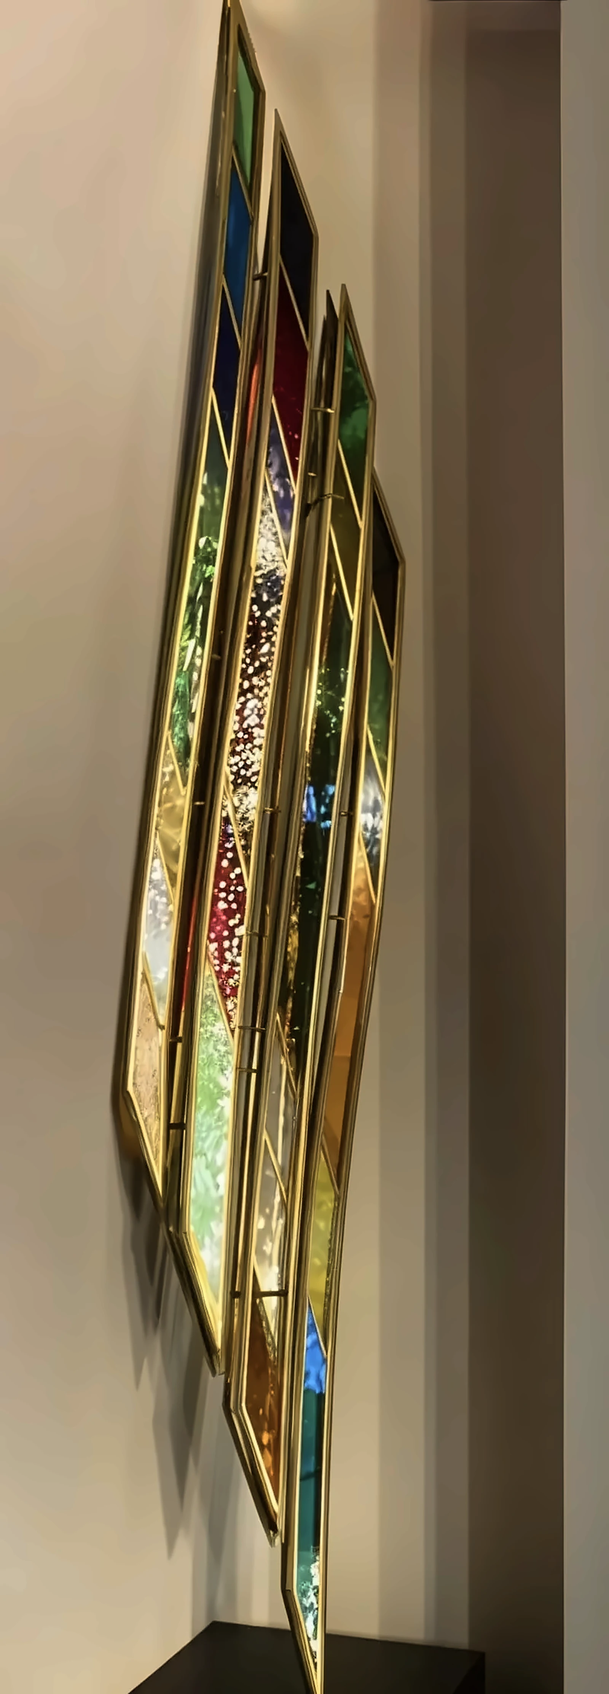
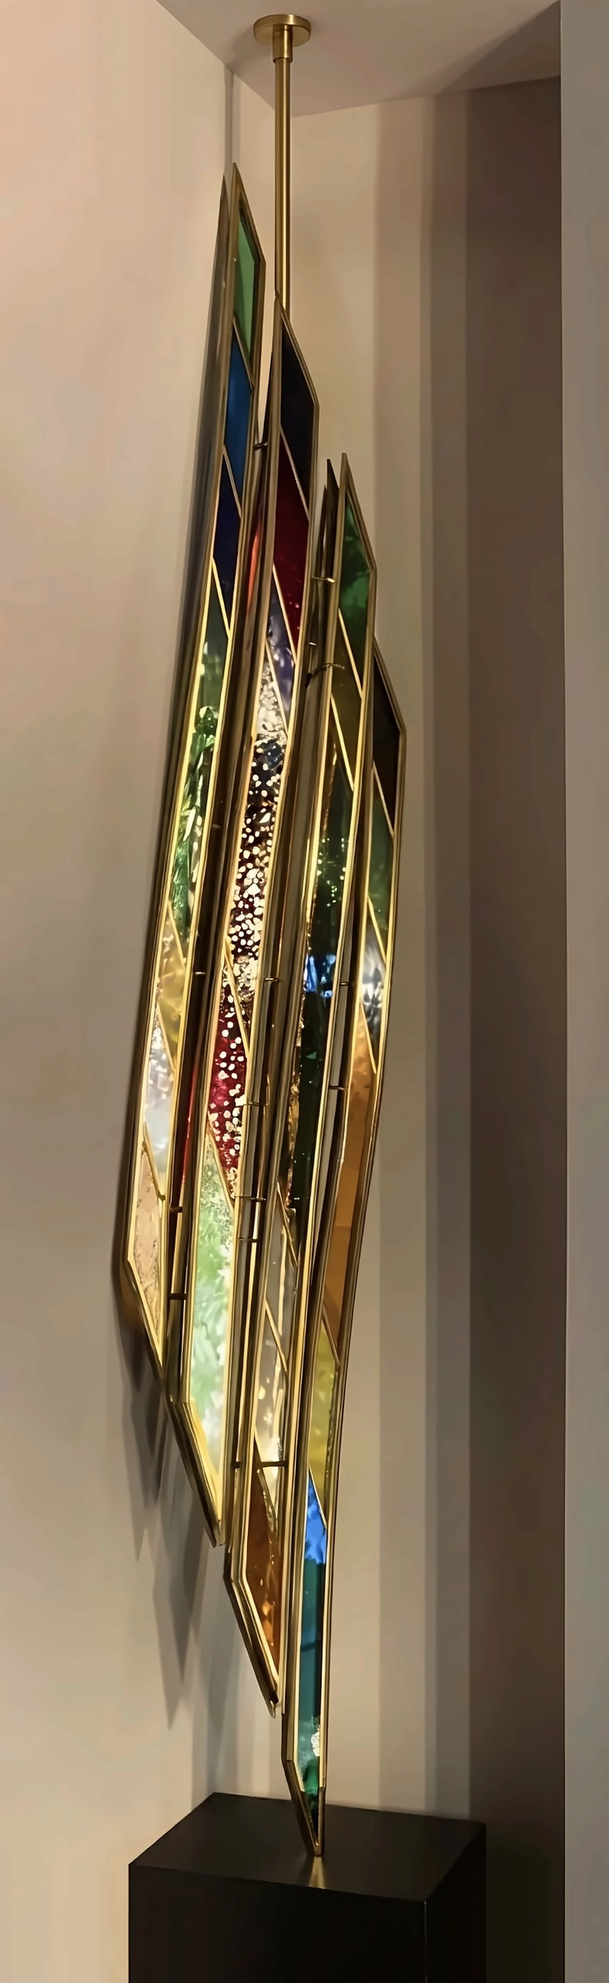
Olymp: replaced with Arthi's new photo (2x upscale, 1582x5152), ratio 0.307, image version v3
Claude-Session: https://claude.ai/code/session_01H5rr4vyQfECm49aUQdYU3c

Changed region(s): [[0.1875, 0.0, 0.875, 1.0], [0.6875, 0.0, 0.9062, 0.0624]]

diff --git a/fr/gallery/olymp-glass-sculpture/index.html b/fr/gallery/olymp-glass-sculpture/index.html
@@ -19,7 +19,7 @@
     <meta property="og:title" content="Olymp — Vitrail d&#x27;Arthemii Ionaere">
     <meta property="og:description" content="Une haute sculpture ondulée de la série Frame Sculpting. Du verre thermoformé serti dans une structure en acier avec des baguettes de laiton forme une…">
     <meta property="og:url" content="https://ionaere.com/fr/gallery/olymp-glass-sculpture/">
-    <meta property="og:image" content="https://ionaere.com/img/opt/2024-12-Arthemii-Ionaere-olymp-1600.jpg?v=2">
+    <meta property="og:image" content="https://ionaere.com/img/opt/2024-12-Arthemii-Ionaere-olymp-1600.jpg?v=3">
     <meta name="twitter:card" content="summary_large_image">
     <link rel="preconnect" href="https://fonts.googleapis.com">
     <link rel="preconnect" href="https://fonts.gstatic.com" crossorigin>
@@ -36,7 +36,7 @@
         }
     </style>
     <script type="application/ld+json">
-{"@context": "https://schema.org", "@type": "VisualArtwork", "name": "Olymp", "url": "https://ionaere.com/fr/gallery/olymp-glass-sculpture/", "image": "https://ionaere.com/img/opt/2024-12-Arthemii-Ionaere-olymp-1600.jpg?v=2", "description": "Une haute sculpture ondulée de la série Frame Sculpting. Du verre thermoformé serti dans une structure en acier avec des baguettes de laiton forme une surface verticale fluide d'environ deux mètres. Elle est conçue pour être suspendue.", "artform": "Stained glass", "artMedium": "Glass", "creator": {"@type": "Person", "@id": "https://ionaere.com/#artist", "name": "Arthemii Ionaere", "url": "https://ionaere.com/"}}
+{"@context": "https://schema.org", "@type": "VisualArtwork", "name": "Olymp", "url": "https://ionaere.com/fr/gallery/olymp-glass-sculpture/", "image": "https://ionaere.com/img/opt/2024-12-Arthemii-Ionaere-olymp-1600.jpg?v=3", "description": "Une haute sculpture ondulée de la série Frame Sculpting. Du verre thermoformé serti dans une structure en acier avec des baguettes de laiton forme une surface verticale fluide d'environ deux mètres. Elle est conçue pour être suspendue.", "artform": "Stained glass", "artMedium": "Glass", "creator": {"@type": "Person", "@id": "https://ionaere.com/#artist", "name": "Arthemii Ionaere", "url": "https://ionaere.com/"}}
     </script>
 </head>
 <body>
@@ -88,7 +88,7 @@
             <div class="container" style="max-width:1000px">
                 <a href="../" style="font-size:0.875rem;color:var(--text-secondary);display:inline-block;margin-bottom:var(--spacing-md)">← Retour à la galerie</a>
                 <div class="photo-view" style="border-radius:12px;overflow:hidden;margin-bottom:var(--spacing-md);background:var(--bg-alt)">
-                    <picture><source type="image/webp" srcset="../../../img/opt/2024-12-Arthemii-Ionaere-olymp-800.webp?v=2 800w, ../../../img/opt/2024-12-Arthemii-Ionaere-olymp-1600.webp?v=2 1600w, ../../../img/opt/2024-12-Arthemii-Ionaere-olymp-2400.webp?v=2 2400w" sizes="(max-width: 1000px) 100vw, 1000px"><img src="../../../img/opt/2024-12-Arthemii-Ionaere-olymp-1600.jpg?v=2" alt="Olymp — Arthemii Ionaere" style="width:100%;display:block"></picture>
+                    <picture><source type="image/webp" srcset="../../../img/opt/2024-12-Arthemii-Ionaere-olymp-800.webp?v=3 800w, ../../../img/opt/2024-12-Arthemii-Ionaere-olymp-1600.webp?v=3 1600w, ../../../img/opt/2024-12-Arthemii-Ionaere-olymp-2400.webp?v=3 2400w" sizes="(max-width: 1000px) 100vw, 1000px"><img src="../../../img/opt/2024-12-Arthemii-Ionaere-olymp-1600.jpg?v=3" alt="Olymp — Arthemii Ionaere" style="width:100%;display:block"></picture>
                     <a class="photo-view__arrow photo-view__arrow--prev" href="../exhibition-installation/" rel="prev" aria-label="Previous photo: Kinetic Prizm n° 2"><svg viewBox="0 0 24 24" aria-hidden="true"><path d="M15 5l-7 7 7 7"/></svg></a>
                     <a class="photo-view__arrow photo-view__arrow--next" href="../stained-glass-composition/" rel="next" aria-label="Next photo: Frame Sculpting · 2020"><svg viewBox="0 0 24 24" aria-hidden="true"><path d="M9 5l7 7-7 7"/></svg></a>
                 </div>

diff --git a/es/gallery/olymp-glass-sculpture/index.html b/es/gallery/olymp-glass-sculpture/index.html
@@ -19,7 +19,7 @@
     <meta property="og:title" content="Olymp — Vitral de Arthemii Ionaere">
     <meta property="og:description" content="Una escultura alta y ondulada de la serie Frame Sculpting. Vidrio curvado engastado en una estructura de acero con perfiles de latón forma una superficie…">
     <meta property="og:url" content="https://ionaere.com/es/gallery/olymp-glass-sculpture/">
-    <meta property="og:image" content="https://ionaere.com/img/opt/2024-12-Arthemii-Ionaere-olymp-1600.jpg?v=2">
+    <meta property="og:image" content="https://ionaere.com/img/opt/2024-12-Arthemii-Ionaere-olymp-1600.jpg?v=3">
     <meta name="twitter:card" content="summary_large_image">
     <link rel="preconnect" href="https://fonts.googleapis.com">
     <link rel="preconnect" href="https://fonts.gstatic.com" crossorigin>
@@ -36,7 +36,7 @@
         }
     </style>
     <script type="application/ld+json">
-{"@context": "https://schema.org", "@type": "VisualArtwork", "name": "Olymp", "url": "https://ionaere.com/es/gallery/olymp-glass-sculpture/", "image": "https://ionaere.com/img/opt/2024-12-Arthemii-Ionaere-olymp-1600.jpg?v=2", "description": "Una escultura alta y ondulada de la serie Frame Sculpting. Vidrio curvado engastado en una estructura de acero con perfiles de latón forma una superficie vertical fluida de unos dos metros de altura. Está concebida para colgarse.", "artform": "Stained glass", "artMedium": "Glass", "creator": {"@type": "Person", "@id": "https://ionaere.com/#artist", "name": "Arthemii Ionaere", "url": "https://ionaere.com/"}}
+{"@context": "https://schema.org", "@type": "VisualArtwork", "name": "Olymp", "url": "https://ionaere.com/es/gallery/olymp-glass-sculpture/", "image": "https://ionaere.com/img/opt/2024-12-Arthemii-Ionaere-olymp-1600.jpg?v=3", "description": "Una escultura alta y ondulada de la serie Frame Sculpting. Vidrio curvado engastado en una estructura de acero con perfiles de latón forma una superficie vertical fluida de unos dos metros de altura. Está concebida para colgarse.", "artform": "Stained glass", "artMedium": "Glass", "creator": {"@type": "Person", "@id": "https://ionaere.com/#artist", "name": "Arthemii Ionaere", "url": "https://ionaere.com/"}}
     </script>
 </head>
 <body>
@@ -88,7 +88,7 @@
             <div class="container" style="max-width:1000px">
                 <a href="../" style="font-size:0.875rem;color:var(--text-secondary);display:inline-block;margin-bottom:var(--spacing-md)">← Volver a la galería</a>
                 <div class="photo-view" style="border-radius:12px;overflow:hidden;margin-bottom:var(--spacing-md);background:var(--bg-alt)">
-                    <picture><source type="image/webp" srcset="../../../img/opt/2024-12-Arthemii-Ionaere-olymp-800.webp?v=2 800w, ../../../img/opt/2024-12-Arthemii-Ionaere-olymp-1600.webp?v=2 1600w, ../../../img/opt/2024-12-Arthemii-Ionaere-olymp-2400.webp?v=2 2400w" sizes="(max-width: 1000px) 100vw, 1000px"><img src="../../../img/opt/2024-12-Arthemii-Ionaere-olymp-1600.jpg?v=2" alt="Olymp — Arthemii Ionaere" style="width:100%;display:block"></picture>
+                    <picture><source type="image/webp" srcset="../../../img/opt/2024-12-Arthemii-Ionaere-olymp-800.webp?v=3 800w, ../../../img/opt/2024-12-Arthemii-Ionaere-olymp-1600.webp?v=3 1600w, ../../../img/opt/2024-12-Arthemii-Ionaere-olymp-2400.webp?v=3 2400w" sizes="(max-width: 1000px) 100vw, 1000px"><img src="../../../img/opt/2024-12-Arthemii-Ionaere-olymp-1600.jpg?v=3" alt="Olymp — Arthemii Ionaere" style="width:100%;display:block"></picture>
                     <a class="photo-view__arrow photo-view__arrow--prev" href="../exhibition-installation/" rel="prev" aria-label="Previous photo: Kinetic Prizm n.º 2"><svg viewBox="0 0 24 24" aria-hidden="true"><path d="M15 5l-7 7 7 7"/></svg></a>
                     <a class="photo-view__arrow photo-view__arrow--next" href="../stained-glass-composition/" rel="next" aria-label="Next photo: Frame Sculpting · 2020"><svg viewBox="0 0 24 24" aria-hidden="true"><path d="M9 5l7 7-7 7"/></svg></a>
                 </div>

diff --git a/de/gallery/olymp-glass-sculpture/index.html b/de/gallery/olymp-glass-sculpture/index.html
@@ -19,7 +19,7 @@
     <meta property="og:title" content="Olymp — Glaskunst von Arthemii Ionaere">
     <meta property="og:description" content="Eine hohe, wellenförmige Skulptur aus der Serie Frame Sculpting. Gebogenes Glas sitzt in einem Stahlrahmen mit Messingprofilen und bildet eine fließende…">
     <meta property="og:url" content="https://ionaere.com/de/gallery/olymp-glass-sculpture/">
-    <meta property="og:image" content="https://ionaere.com/img/opt/2024-12-Arthemii-Ionaere-olymp-1600.jpg?v=2">
+    <meta property="og:image" content="https://ionaere.com/img/opt/2024-12-Arthemii-Ionaere-olymp-1600.jpg?v=3">
     <meta name="twitter:card" content="summary_large_image">
     <link rel="preconnect" href="https://fonts.googleapis.com">
     <link rel="preconnect" href="https://fonts.gstatic.com" crossorigin>
@@ -36,7 +36,7 @@
         }
     </style>
     <script type="application/ld+json">
-{"@context": "https://schema.org", "@type": "VisualArtwork", "name": "Olymp", "url": "https://ionaere.com/de/gallery/olymp-glass-sculpture/", "image": "https://ionaere.com/img/opt/2024-12-Arthemii-Ionaere-olymp-1600.jpg?v=2", "description": "Eine hohe, wellenförmige Skulptur aus der Serie Frame Sculpting. Gebogenes Glas sitzt in einem Stahlrahmen mit Messingprofilen und bildet eine fließende, etwa zwei Meter hohe Fläche. Die Arbeit ist zum Aufhängen konzipiert.", "artform": "Stained glass", "artMedium": "Glass", "creator": {"@type": "Person", "@id": "https://ionaere.com/#artist", "name": "Arthemii Ionaere", "url": "https://ionaere.com/"}}
+{"@context": "https://schema.org", "@type": "VisualArtwork", "name": "Olymp", "url": "https://ionaere.com/de/gallery/olymp-glass-sculpture/", "image": "https://ionaere.com/img/opt/2024-12-Arthemii-Ionaere-olymp-1600.jpg?v=3", "description": "Eine hohe, wellenförmige Skulptur aus der Serie Frame Sculpting. Gebogenes Glas sitzt in einem Stahlrahmen mit Messingprofilen und bildet eine fließende, etwa zwei Meter hohe Fläche. Die Arbeit ist zum Aufhängen konzipiert.", "artform": "Stained glass", "artMedium": "Glass", "creator": {"@type": "Person", "@id": "https://ionaere.com/#artist", "name": "Arthemii Ionaere", "url": "https://ionaere.com/"}}
     </script>
 </head>
 <body>
@@ -88,7 +88,7 @@
             <div class="container" style="max-width:1000px">
                 <a href="../" style="font-size:0.875rem;color:var(--text-secondary);display:inline-block;margin-bottom:var(--spacing-md)">← Zurück zur Galerie</a>
                 <div class="photo-view" style="border-radius:12px;overflow:hidden;margin-bottom:var(--spacing-md);background:var(--bg-alt)">
-                    <picture><source type="image/webp" srcset="../../../img/opt/2024-12-Arthemii-Ionaere-olymp-800.webp?v=2 800w, ../../../img/opt/2024-12-Arthemii-Ionaere-olymp-1600.webp?v=2 1600w, ../../../img/opt/2024-12-Arthemii-Ionaere-olymp-2400.webp?v=2 2400w" sizes="(max-width: 1000px) 100vw, 1000px"><img src="../../../img/opt/2024-12-Arthemii-Ionaere-olymp-1600.jpg?v=2" alt="Olymp — Arthemii Ionaere" style="width:100%;display:block"></picture>
+                    <picture><source type="image/webp" srcset="../../../img/opt/2024-12-Arthemii-Ionaere-olymp-800.webp?v=3 800w, ../../../img/opt/2024-12-Arthemii-Ionaere-olymp-1600.webp?v=3 1600w, ../../../img/opt/2024-12-Arthemii-Ionaere-olymp-2400.webp?v=3 2400w" sizes="(max-width: 1000px) 100vw, 1000px"><img src="../../../img/opt/2024-12-Arthemii-Ionaere-olymp-1600.jpg?v=3" alt="Olymp — Arthemii Ionaere" style="width:100%;display:block"></picture>
                     <a class="photo-view__arrow photo-view__arrow--prev" href="../exhibition-installation/" rel="prev" aria-label="Previous photo: Kinetic Prizm Nr. 2"><svg viewBox="0 0 24 24" aria-hidden="true"><path d="M15 5l-7 7 7 7"/></svg></a>
                     <a class="photo-view__arrow photo-view__arrow--next" href="../stained-glass-composition/" rel="next" aria-label="Next photo: Frame Sculpting · 2020"><svg viewBox="0 0 24 24" aria-hidden="true"><path d="M9 5l7 7-7 7"/></svg></a>
                 </div>

diff --git a/it/gallery/olymp-glass-sculpture/index.html b/it/gallery/olymp-glass-sculpture/index.html
@@ -19,7 +19,7 @@
     <meta property="og:title" content="Olymp — Vetrata artistica di Arthemii Ionaere">
     <meta property="og:description" content="Un&#x27;alta scultura ondulata della serie Frame Sculpting. Vetro curvato incastonato in una struttura d&#x27;acciaio con profili in ottone forma una superficie…">
     <meta property="og:url" content="https://ionaere.com/it/gallery/olymp-glass-sculpture/">
-    <meta property="og:image" content="https://ionaere.com/img/opt/2024-12-Arthemii-Ionaere-olymp-1600.jpg?v=2">
+    <meta property="og:image" content="https://ionaere.com/img/opt/2024-12-Arthemii-Ionaere-olymp-1600.jpg?v=3">
     <meta name="twitter:card" content="summary_large_image">
     <link rel="preconnect" href="https://fonts.googleapis.com">
     <link rel="preconnect" href="https://fonts.gstatic.com" crossorigin>
@@ -36,7 +36,7 @@
         }
     </style>
     <script type="application/ld+json">
-{"@context": "https://schema.org", "@type": "VisualArtwork", "name": "Olymp", "url": "https://ionaere.com/it/gallery/olymp-glass-sculpture/", "image": "https://ionaere.com/img/opt/2024-12-Arthemii-Ionaere-olymp-1600.jpg?v=2", "description": "Un'alta scultura ondulata della serie Frame Sculpting. Vetro curvato incastonato in una struttura d'acciaio con profili in ottone forma una superficie verticale fluida alta circa due metri. È pensata per essere sospesa.", "artform": "Stained glass", "artMedium": "Glass", "creator": {"@type": "Person", "@id": "https://ionaere.com/#artist", "name": "Arthemii Ionaere", "url": "https://ionaere.com/"}}
+{"@context": "https://schema.org", "@type": "VisualArtwork", "name": "Olymp", "url": "https://ionaere.com/it/gallery/olymp-glass-sculpture/", "image": "https://ionaere.com/img/opt/2024-12-Arthemii-Ionaere-olymp-1600.jpg?v=3", "description": "Un'alta scultura ondulata della serie Frame Sculpting. Vetro curvato incastonato in una struttura d'acciaio con profili in ottone forma una superficie verticale fluida alta circa due metri. È pensata per essere sospesa.", "artform": "Stained glass", "artMedium": "Glass", "creator": {"@type": "Person", "@id": "https://ionaere.com/#artist", "name": "Arthemii Ionaere", "url": "https://ionaere.com/"}}
     </script>
 </head>
 <body>
@@ -88,7 +88,7 @@
             <div class="container" style="max-width:1000px">
                 <a href="../" style="font-size:0.875rem;color:var(--text-secondary);display:inline-block;margin-bottom:var(--spacing-md)">← Torna alla galleria</a>
                 <div class="photo-view" style="border-radius:12px;overflow:hidden;margin-bottom:var(--spacing-md);background:var(--bg-alt)">
-                    <picture><source type="image/webp" srcset="../../../img/opt/2024-12-Arthemii-Ionaere-olymp-800.webp?v=2 800w, ../../../img/opt/2024-12-Arthemii-Ionaere-olymp-1600.webp?v=2 1600w, ../../../img/opt/2024-12-Arthemii-Ionaere-olymp-2400.webp?v=2 2400w" sizes="(max-width: 1000px) 100vw, 1000px"><img src="../../../img/opt/2024-12-Arthemii-Ionaere-olymp-1600.jpg?v=2" alt="Olymp — Arthemii Ionaere" style="width:100%;display:block"></picture>
+                    <picture><source type="image/webp" srcset="../../../img/opt/2024-12-Arthemii-Ionaere-olymp-800.webp?v=3 800w, ../../../img/opt/2024-12-Arthemii-Ionaere-olymp-1600.webp?v=3 1600w, ../../../img/opt/2024-12-Arthemii-Ionaere-olymp-2400.webp?v=3 2400w" sizes="(max-width: 1000px) 100vw, 1000px"><img src="../../../img/opt/2024-12-Arthemii-Ionaere-olymp-1600.jpg?v=3" alt="Olymp — Arthemii Ionaere" style="width:100%;display:block"></picture>
                     <a class="photo-view__arrow photo-view__arrow--prev" href="../exhibition-installation/" rel="prev" aria-label="Previous photo: Kinetic Prizm n. 2"><svg viewBox="0 0 24 24" aria-hidden="true"><path d="M15 5l-7 7 7 7"/></svg></a>
                     <a class="photo-view__arrow photo-view__arrow--next" href="../stained-glass-composition/" rel="next" aria-label="Next photo: Frame Sculpting · 2020"><svg viewBox="0 0 24 24" aria-hidden="true"><path d="M9 5l7 7-7 7"/></svg></a>
                 </div>

diff --git a/gallery/olymp-glass-sculpture/index.html b/gallery/olymp-glass-sculpture/index.html
@@ -19,7 +19,7 @@
     <meta property="og:title" content="Olymp — Stained Glass Art by Arthemii Ionaere">
     <meta property="og:description" content="A tall, wave-shaped sculpture from the Frame Sculpting series. Slumped glass is set into a steel frame with brass came, forming a flowing vertical surface…">
     <meta property="og:url" content="https://ionaere.com/gallery/olymp-glass-sculpture/">
-    <meta property="og:image" content="https://ionaere.com/img/opt/2024-12-Arthemii-Ionaere-olymp-1600.jpg?v=2">
+    <meta property="og:image" content="https://ionaere.com/img/opt/2024-12-Arthemii-Ionaere-olymp-1600.jpg?v=3">
     <meta name="twitter:card" content="summary_large_image">
     <link rel="preconnect" href="https://fonts.googleapis.com">
     <link rel="preconnect" href="https://fonts.gstatic.com" crossorigin>
@@ -36,7 +36,7 @@
         }
     </style>
     <script type="application/ld+json">
-{"@context": "https://schema.org", "@type": "VisualArtwork", "name": "Olymp", "url": "https://ionaere.com/gallery/olymp-glass-sculpture/", "image": "https://ionaere.com/img/opt/2024-12-Arthemii-Ionaere-olymp-1600.jpg?v=2", "description": "A tall, wave-shaped sculpture from the Frame Sculpting series. Slumped glass is set into a steel frame with brass came, forming a flowing vertical surface about two metres high. It is designed to be suspended.", "artform": "Stained glass", "artMedium": "Glass", "creator": {"@type": "Person", "@id": "https://ionaere.com/#artist", "name": "Arthemii Ionaere", "url": "https://ionaere.com/"}}
+{"@context": "https://schema.org", "@type": "VisualArtwork", "name": "Olymp", "url": "https://ionaere.com/gallery/olymp-glass-sculpture/", "image": "https://ionaere.com/img/opt/2024-12-Arthemii-Ionaere-olymp-1600.jpg?v=3", "description": "A tall, wave-shaped sculpture from the Frame Sculpting series. Slumped glass is set into a steel frame with brass came, forming a flowing vertical surface about two metres high. It is designed to be suspended.", "artform": "Stained glass", "artMedium": "Glass", "creator": {"@type": "Person", "@id": "https://ionaere.com/#artist", "name": "Arthemii Ionaere", "url": "https://ionaere.com/"}}
     </script>
 </head>
 <body>
@@ -88,7 +88,7 @@
             <div class="container" style="max-width:1000px">
                 <a href="../" style="font-size:0.875rem;color:var(--text-secondary);display:inline-block;margin-bottom:var(--spacing-md)">&larr; Back to Gallery</a>
                 <div class="photo-view" style="border-radius:12px;overflow:hidden;margin-bottom:var(--spacing-md);background:var(--bg-alt)">
-                    <picture><source type="image/webp" srcset="../../img/opt/2024-12-Arthemii-Ionaere-olymp-800.webp?v=2 800w, ../../img/opt/2024-12-Arthemii-Ionaere-olymp-1600.webp?v=2 1600w, ../../img/opt/2024-12-Arthemii-Ionaere-olymp-2400.webp?v=2 2400w" sizes="(max-width: 1000px) 100vw, 1000px"><img src="../../img/opt/2024-12-Arthemii-Ionaere-olymp-1600.jpg?v=2" alt="Olymp — Arthemii Ionaere" style="width:100%;display:block"></picture>
+                    <picture><source type="image/webp" srcset="../../img/opt/2024-12-Arthemii-Ionaere-olymp-800.webp?v=3 800w, ../../img/opt/2024-12-Arthemii-Ionaere-olymp-1600.webp?v=3 1600w, ../../img/opt/2024-12-Arthemii-Ionaere-olymp-2400.webp?v=3 2400w" sizes="(max-width: 1000px) 100vw, 1000px"><img src="../../img/opt/2024-12-Arthemii-Ionaere-olymp-1600.jpg?v=3" alt="Olymp — Arthemii Ionaere" style="width:100%;display:block"></picture>
                     <a class="photo-view__arrow photo-view__arrow--prev" href="../exhibition-installation/" rel="prev" aria-label="Previous photo: Kinetic Prizm No. 2"><svg viewBox="0 0 24 24" aria-hidden="true"><path d="M15 5l-7 7 7 7"/></svg></a>
                     <a class="photo-view__arrow photo-view__arrow--next" href="../stained-glass-composition/" rel="next" aria-label="Next photo: Frame Sculpting · 2020"><svg viewBox="0 0 24 24" aria-hidden="true"><path d="M9 5l7 7-7 7"/></svg></a>
                 </div>

diff --git a/es/index.html b/es/index.html
@@ -3480,7 +3480,7 @@
                         <div class="gallery__item" style="--r:0.719"><picture><source type="image/webp" data-srcset="../img/opt/2024-12-arthemii-ionaere-professional-camera-depth__77285-800.webp?v=4 800w, ../img/opt/2024-12-arthemii-ionaere-professional-camera-depth__77285-1600.webp?v=4 1600w, ../img/opt/2024-12-arthemii-ionaere-professional-camera-depth__77285-2400.webp?v=4 2400w" sizes="(max-width: 640px) 90vw, (max-width: 1024px) 50vw, 800px"><img data-src="../img/opt/2024-12-arthemii-ionaere-professional-camera-depth__77285-1600.jpg?v=4" alt="Glass depth study — stained glass by Arthemii Ionaere" loading="lazy" decoding="async"></picture><span class="gallery__caption">Vitral abstracto · 2023</span></div>
                         <div class="gallery__item" style="--r:0.438"><picture><source type="image/webp" data-srcset="../img/opt/2024-12-Arthemii-Ionaere-dsaaiHHk1-800.webp 800w, ../img/opt/2024-12-Arthemii-Ionaere-dsaaiHHk1-1600.webp 1600w, ../img/opt/2024-12-Arthemii-Ionaere-dsaaiHHk1-2400.webp 2400w" sizes="(max-width: 640px) 90vw, (max-width: 1024px) 50vw, 800px"><img data-src="../img/opt/2024-12-Arthemii-Ionaere-dsaaiHHk1-1600.jpg" alt="Abstract glass composition — stained glass by Arthemii Ionaere" loading="lazy" decoding="async"></picture><span class="gallery__caption">Composición abstracta de vidrio <span>· 2020</span></span></div>
                         <div class="gallery__item" style="--r:0.828"><picture><source type="image/webp" data-srcset="../img/opt/2024-11-IMG_7791-800.webp 800w, ../img/opt/2024-11-IMG_7791-1600.webp 1600w, ../img/opt/2024-11-IMG_7791-2400.webp 2400w" sizes="(max-width: 640px) 90vw, (max-width: 1024px) 50vw, 800px"><img data-src="../img/opt/2024-11-IMG_7791-1600.jpg" alt="Exhibition installation — stained glass by Arthemii Ionaere" loading="lazy" decoding="async"></picture><span class="gallery__caption">Kinetic Prizm n.º 2 <span>· 2024</span></span></div>
-                        <div class="gallery__item" style="--r:0.359"><picture><source type="image/webp" data-srcset="../img/opt/2024-12-Arthemii-Ionaere-olymp-800.webp?v=2 800w, ../img/opt/2024-12-Arthemii-Ionaere-olymp-1600.webp?v=2 1600w, ../img/opt/2024-12-Arthemii-Ionaere-olymp-2400.webp?v=2 2400w" sizes="(max-width: 640px) 90vw, (max-width: 1024px) 50vw, 800px"><img data-src="../img/opt/2024-12-Arthemii-Ionaere-olymp-1600.jpg?v=2" alt="Olymp glass sculpture — stained glass by Arthemii Ionaere" loading="lazy" decoding="async"></picture><span class="gallery__caption">Olymp <span>· 2020</span></span></div>
+                        <div class="gallery__item" style="--r:0.307"><picture><source type="image/webp" data-srcset="../img/opt/2024-12-Arthemii-Ionaere-olymp-800.webp?v=3 800w, ../img/opt/2024-12-Arthemii-Ionaere-olymp-1600.webp?v=3 1600w, ../img/opt/2024-12-Arthemii-Ionaere-olymp-2400.webp?v=3 2400w" sizes="(max-width: 640px) 90vw, (max-width: 1024px) 50vw, 800px"><img data-src="../img/opt/2024-12-Arthemii-Ionaere-olymp-1600.jpg?v=3" alt="Olymp glass sculpture — stained glass by Arthemii Ionaere" loading="lazy" decoding="async"></picture><span class="gallery__caption">Olymp <span>· 2020</span></span></div>
                     </div>
                     <div class="gallery__row gallery__row--wide">
                         <div class="gallery__item" style="--r:1.6"><picture><source type="image/webp" data-srcset="../img/opt/portrait-arthemii-800.webp 800w, ../img/opt/portrait-arthemii-1600.webp 1600w, ../img/opt/portrait-arthemii-2400.webp 2400w" sizes="(max-width: 640px) 90vw, (max-width: 1024px) 50vw, 800px"><img data-src="../img/opt/portrait-arthemii-1600.jpg" alt="Arthemii Ionaere portrait with prismatic light" loading="lazy" decoding="async"></picture><span class="gallery__caption">Arthemii Ionaere · retrato</span></div>

diff --git a/de/index.html b/de/index.html
@@ -3480,7 +3480,7 @@
                         <div class="gallery__item" style="--r:0.719"><picture><source type="image/webp" data-srcset="../img/opt/2024-12-arthemii-ionaere-professional-camera-depth__77285-800.webp?v=4 800w, ../img/opt/2024-12-arthemii-ionaere-professional-camera-depth__77285-1600.webp?v=4 1600w, ../img/opt/2024-12-arthemii-ionaere-professional-camera-depth__77285-2400.webp?v=4 2400w" sizes="(max-width: 640px) 90vw, (max-width: 1024px) 50vw, 800px"><img data-src="../img/opt/2024-12-arthemii-ionaere-professional-camera-depth__77285-1600.jpg?v=4" alt="Glass depth study — stained glass by Arthemii Ionaere" loading="lazy" decoding="async"></picture><span class="gallery__caption">Abstrakte Glasmalerei · 2023</span></div>
                         <div class="gallery__item" style="--r:0.438"><picture><source type="image/webp" data-srcset="../img/opt/2024-12-Arthemii-Ionaere-dsaaiHHk1-800.webp 800w, ../img/opt/2024-12-Arthemii-Ionaere-dsaaiHHk1-1600.webp 1600w, ../img/opt/2024-12-Arthemii-Ionaere-dsaaiHHk1-2400.webp 2400w" sizes="(max-width: 640px) 90vw, (max-width: 1024px) 50vw, 800px"><img data-src="../img/opt/2024-12-Arthemii-Ionaere-dsaaiHHk1-1600.jpg" alt="Abstract glass composition — stained glass by Arthemii Ionaere" loading="lazy" decoding="async"></picture><span class="gallery__caption">Abstrakte Glaskomposition <span>· 2020</span></span></div>
                         <div class="gallery__item" style="--r:0.828"><picture><source type="image/webp" data-srcset="../img/opt/2024-11-IMG_7791-800.webp 800w, ../img/opt/2024-11-IMG_7791-1600.webp 1600w, ../img/opt/2024-11-IMG_7791-2400.webp 2400w" sizes="(max-width: 640px) 90vw, (max-width: 1024px) 50vw, 800px"><img data-src="../img/opt/2024-11-IMG_7791-1600.jpg" alt="Exhibition installation — stained glass by Arthemii Ionaere" loading="lazy" decoding="async"></picture><span class="gallery__caption">Kinetic Prizm Nr. 2 <span>· 2024</span></span></div>
-                        <div class="gallery__item" style="--r:0.359"><picture><source type="image/webp" data-srcset="../img/opt/2024-12-Arthemii-Ionaere-olymp-800.webp?v=2 800w, ../img/opt/2024-12-Arthemii-Ionaere-olymp-1600.webp?v=2 1600w, ../img/opt/2024-12-Arthemii-Ionaere-olymp-2400.webp?v=2 2400w" sizes="(max-width: 640px) 90vw, (max-width: 1024px) 50vw, 800px"><img data-src="../img/opt/2024-12-Arthemii-Ionaere-olymp-1600.jpg?v=2" alt="Olymp glass sculpture — stained glass by Arthemii Ionaere" loading="lazy" decoding="async"></picture><span class="gallery__caption">Olymp <span>· 2020</span></span></div>
+                        <div class="gallery__item" style="--r:0.307"><picture><source type="image/webp" data-srcset="../img/opt/2024-12-Arthemii-Ionaere-olymp-800.webp?v=3 800w, ../img/opt/2024-12-Arthemii-Ionaere-olymp-1600.webp?v=3 1600w, ../img/opt/2024-12-Arthemii-Ionaere-olymp-2400.webp?v=3 2400w" sizes="(max-width: 640px) 90vw, (max-width: 1024px) 50vw, 800px"><img data-src="../img/opt/2024-12-Arthemii-Ionaere-olymp-1600.jpg?v=3" alt="Olymp glass sculpture — stained glass by Arthemii Ionaere" loading="lazy" decoding="async"></picture><span class="gallery__caption">Olymp <span>· 2020</span></span></div>
                     </div>
                     <div class="gallery__row gallery__row--wide">
                         <div class="gallery__item" style="--r:1.6"><picture><source type="image/webp" data-srcset="../img/opt/portrait-arthemii-800.webp 800w, ../img/opt/portrait-arthemii-1600.webp 1600w, ../img/opt/portrait-arthemii-2400.webp 2400w" sizes="(max-width: 640px) 90vw, (max-width: 1024px) 50vw, 800px"><img data-src="../img/opt/portrait-arthemii-1600.jpg" alt="Arthemii Ionaere portrait with prismatic light" loading="lazy" decoding="async"></picture><span class="gallery__caption">Arthemii Ionaere · Porträt</span></div>

diff --git a/fr/index.html b/fr/index.html
@@ -3480,7 +3480,7 @@
                         <div class="gallery__item" style="--r:0.719"><picture><source type="image/webp" data-srcset="../img/opt/2024-12-arthemii-ionaere-professional-camera-depth__77285-800.webp?v=4 800w, ../img/opt/2024-12-arthemii-ionaere-professional-camera-depth__77285-1600.webp?v=4 1600w, ../img/opt/2024-12-arthemii-ionaere-professional-camera-depth__77285-2400.webp?v=4 2400w" sizes="(max-width: 640px) 90vw, (max-width: 1024px) 50vw, 800px"><img data-src="../img/opt/2024-12-arthemii-ionaere-professional-camera-depth__77285-1600.jpg?v=4" alt="Glass depth study — stained glass by Arthemii Ionaere" loading="lazy" decoding="async"></picture><span class="gallery__caption">Vitrail abstrait · 2023</span></div>
                         <div class="gallery__item" style="--r:0.438"><picture><source type="image/webp" data-srcset="../img/opt/2024-12-Arthemii-Ionaere-dsaaiHHk1-800.webp 800w, ../img/opt/2024-12-Arthemii-Ionaere-dsaaiHHk1-1600.webp 1600w, ../img/opt/2024-12-Arthemii-Ionaere-dsaaiHHk1-2400.webp 2400w" sizes="(max-width: 640px) 90vw, (max-width: 1024px) 50vw, 800px"><img data-src="../img/opt/2024-12-Arthemii-Ionaere-dsaaiHHk1-1600.jpg" alt="Abstract glass composition — stained glass by Arthemii Ionaere" loading="lazy" decoding="async"></picture><span class="gallery__caption">Composition abstraite en verre <span>· 2020</span></span></div>
                         <div class="gallery__item" style="--r:0.828"><picture><source type="image/webp" data-srcset="../img/opt/2024-11-IMG_7791-800.webp 800w, ../img/opt/2024-11-IMG_7791-1600.webp 1600w, ../img/opt/2024-11-IMG_7791-2400.webp 2400w" sizes="(max-width: 640px) 90vw, (max-width: 1024px) 50vw, 800px"><img data-src="../img/opt/2024-11-IMG_7791-1600.jpg" alt="Exhibition installation — stained glass by Arthemii Ionaere" loading="lazy" decoding="async"></picture><span class="gallery__caption">Kinetic Prizm n° 2 <span>· 2024</span></span></div>
-                        <div class="gallery__item" style="--r:0.359"><picture><source type="image/webp" data-srcset="../img/opt/2024-12-Arthemii-Ionaere-olymp-800.webp?v=2 800w, ../img/opt/2024-12-Arthemii-Ionaere-olymp-1600.webp?v=2 1600w, ../img/opt/2024-12-Arthemii-Ionaere-olymp-2400.webp?v=2 2400w" sizes="(max-width: 640px) 90vw, (max-width: 1024px) 50vw, 800px"><img data-src="../img/opt/2024-12-Arthemii-Ionaere-olymp-1600.jpg?v=2" alt="Olymp glass sculpture — stained glass by Arthemii Ionaere" loading="lazy" decoding="async"></picture><span class="gallery__caption">Olymp <span>· 2020</span></span></div>
+                        <div class="gallery__item" style="--r:0.307"><picture><source type="image/webp" data-srcset="../img/opt/2024-12-Arthemii-Ionaere-olymp-800.webp?v=3 800w, ../img/opt/2024-12-Arthemii-Ionaere-olymp-1600.webp?v=3 1600w, ../img/opt/2024-12-Arthemii-Ionaere-olymp-2400.webp?v=3 2400w" sizes="(max-width: 640px) 90vw, (max-width: 1024px) 50vw, 800px"><img data-src="../img/opt/2024-12-Arthemii-Ionaere-olymp-1600.jpg?v=3" alt="Olymp glass sculpture — stained glass by Arthemii Ionaere" loading="lazy" decoding="async"></picture><span class="gallery__caption">Olymp <span>· 2020</span></span></div>
                     </div>
                     <div class="gallery__row gallery__row--wide">
                         <div class="gallery__item" style="--r:1.6"><picture><source type="image/webp" data-srcset="../img/opt/portrait-arthemii-800.webp 800w, ../img/opt/portrait-arthemii-1600.webp 1600w, ../img/opt/portrait-arthemii-2400.webp 2400w" sizes="(max-width: 640px) 90vw, (max-width: 1024px) 50vw, 800px"><img data-src="../img/opt/portrait-arthemii-1600.jpg" alt="Arthemii Ionaere portrait with prismatic light" loading="lazy" decoding="async"></picture><span class="gallery__caption">Arthemii Ionaere · portrait</span></div>

diff --git a/it/index.html b/it/index.html
@@ -3480,7 +3480,7 @@
                         <div class="gallery__item" style="--r:0.719"><picture><source type="image/webp" data-srcset="../img/opt/2024-12-arthemii-ionaere-professional-camera-depth__77285-800.webp?v=4 800w, ../img/opt/2024-12-arthemii-ionaere-professional-camera-depth__77285-1600.webp?v=4 1600w, ../img/opt/2024-12-arthemii-ionaere-professional-camera-depth__77285-2400.webp?v=4 2400w" sizes="(max-width: 640px) 90vw, (max-width: 1024px) 50vw, 800px"><img data-src="../img/opt/2024-12-arthemii-ionaere-professional-camera-depth__77285-1600.jpg?v=4" alt="Glass depth study — stained glass by Arthemii Ionaere" loading="lazy" decoding="async"></picture><span class="gallery__caption">Vetrata astratta · 2023</span></div>
                         <div class="gallery__item" style="--r:0.438"><picture><source type="image/webp" data-srcset="../img/opt/2024-12-Arthemii-Ionaere-dsaaiHHk1-800.webp 800w, ../img/opt/2024-12-Arthemii-Ionaere-dsaaiHHk1-1600.webp 1600w, ../img/opt/2024-12-Arthemii-Ionaere-dsaaiHHk1-2400.webp 2400w" sizes="(max-width: 640px) 90vw, (max-width: 1024px) 50vw, 800px"><img data-src="../img/opt/2024-12-Arthemii-Ionaere-dsaaiHHk1-1600.jpg" alt="Abstract glass composition — stained glass by Arthemii Ionaere" loading="lazy" decoding="async"></picture><span class="gallery__caption">Composizione astratta in vetro <span>· 2020</span></span></div>
                         <div class="gallery__item" style="--r:0.828"><picture><source type="image/webp" data-srcset="../img/opt/2024-11-IMG_7791-800.webp 800w, ../img/opt/2024-11-IMG_7791-1600.webp 1600w, ../img/opt/2024-11-IMG_7791-2400.webp 2400w" sizes="(max-width: 640px) 90vw, (max-width: 1024px) 50vw, 800px"><img data-src="../img/opt/2024-11-IMG_7791-1600.jpg" alt="Exhibition installation — stained glass by Arthemii Ionaere" loading="lazy" decoding="async"></picture><span class="gallery__caption">Kinetic Prizm n. 2 <span>· 2024</span></span></div>
-                        <div class="gallery__item" style="--r:0.359"><picture><source type="image/webp" data-srcset="../img/opt/2024-12-Arthemii-Ionaere-olymp-800.webp?v=2 800w, ../img/opt/2024-12-Arthemii-Ionaere-olymp-1600.webp?v=2 1600w, ../img/opt/2024-12-Arthemii-Ionaere-olymp-2400.webp?v=2 2400w" sizes="(max-width: 640px) 90vw, (max-width: 1024px) 50vw, 800px"><img data-src="../img/opt/2024-12-Arthemii-Ionaere-olymp-1600.jpg?v=2" alt="Olymp glass sculpture — stained glass by Arthemii Ionaere" loading="lazy" decoding="async"></picture><span class="gallery__caption">Olymp <span>· 2020</span></span></div>
+                        <div class="gallery__item" style="--r:0.307"><picture><source type="image/webp" data-srcset="../img/opt/2024-12-Arthemii-Ionaere-olymp-800.webp?v=3 800w, ../img/opt/2024-12-Arthemii-Ionaere-olymp-1600.webp?v=3 1600w, ../img/opt/2024-12-Arthemii-Ionaere-olymp-2400.webp?v=3 2400w" sizes="(max-width: 640px) 90vw, (max-width: 1024px) 50vw, 800px"><img data-src="../img/opt/2024-12-Arthemii-Ionaere-olymp-1600.jpg?v=3" alt="Olymp glass sculpture — stained glass by Arthemii Ionaere" loading="lazy" decoding="async"></picture><span class="gallery__caption">Olymp <span>· 2020</span></span></div>
                     </div>
                     <div class="gallery__row gallery__row--wide">
                         <div class="gallery__item" style="--r:1.6"><picture><source type="image/webp" data-srcset="../img/opt/portrait-arthemii-800.webp 800w, ../img/opt/portrait-arthemii-1600.webp 1600w, ../img/opt/portrait-arthemii-2400.webp 2400w" sizes="(max-width: 640px) 90vw, (max-width: 1024px) 50vw, 800px"><img data-src="../img/opt/portrait-arthemii-1600.jpg" alt="Arthemii Ionaere portrait with prismatic light" loading="lazy" decoding="async"></picture><span class="gallery__caption">Arthemii Ionaere · ritratto</span></div>

diff --git a/index.html b/index.html
@@ -3480,7 +3480,7 @@
                         <div class="gallery__item" style="--r:0.719"><picture><source type="image/webp" data-srcset="img/opt/2024-12-arthemii-ionaere-professional-camera-depth__77285-800.webp?v=4 800w, img/opt/2024-12-arthemii-ionaere-professional-camera-depth__77285-1600.webp?v=4 1600w, img/opt/2024-12-arthemii-ionaere-professional-camera-depth__77285-2400.webp?v=4 2400w" sizes="(max-width: 640px) 90vw, (max-width: 1024px) 50vw, 800px"><img data-src="img/opt/2024-12-arthemii-ionaere-professional-camera-depth__77285-1600.jpg?v=4" alt="Glass depth study — stained glass by Arthemii Ionaere" loading="lazy" decoding="async"></picture><span class="gallery__caption">Abstract stained glass · 2023</span></div>
                         <div class="gallery__item" style="--r:0.438"><picture><source type="image/webp" data-srcset="img/opt/2024-12-Arthemii-Ionaere-dsaaiHHk1-800.webp 800w, img/opt/2024-12-Arthemii-Ionaere-dsaaiHHk1-1600.webp 1600w, img/opt/2024-12-Arthemii-Ionaere-dsaaiHHk1-2400.webp 2400w" sizes="(max-width: 640px) 90vw, (max-width: 1024px) 50vw, 800px"><img data-src="img/opt/2024-12-Arthemii-Ionaere-dsaaiHHk1-1600.jpg" alt="Abstract glass composition — stained glass by Arthemii Ionaere" loading="lazy" decoding="async"></picture><span class="gallery__caption">Abstract glass composition <span>· 2020</span></span></div>
                         <div class="gallery__item" style="--r:0.828"><picture><source type="image/webp" data-srcset="img/opt/2024-11-IMG_7791-800.webp 800w, img/opt/2024-11-IMG_7791-1600.webp 1600w, img/opt/2024-11-IMG_7791-2400.webp 2400w" sizes="(max-width: 640px) 90vw, (max-width: 1024px) 50vw, 800px"><img data-src="img/opt/2024-11-IMG_7791-1600.jpg" alt="Exhibition installation — stained glass by Arthemii Ionaere" loading="lazy" decoding="async"></picture><span class="gallery__caption">Kinetic Prizm No. 2 <span>· 2024</span></span></div>
-                        <div class="gallery__item" style="--r:0.359"><picture><source type="image/webp" data-srcset="img/opt/2024-12-Arthemii-Ionaere-olymp-800.webp?v=2 800w, img/opt/2024-12-Arthemii-Ionaere-olymp-1600.webp?v=2 1600w, img/opt/2024-12-Arthemii-Ionaere-olymp-2400.webp?v=2 2400w" sizes="(max-width: 640px) 90vw, (max-width: 1024px) 50vw, 800px"><img data-src="img/opt/2024-12-Arthemii-Ionaere-olymp-1600.jpg?v=2" alt="Olymp glass sculpture — stained glass by Arthemii Ionaere" loading="lazy" decoding="async"></picture><span class="gallery__caption">Olymp <span>· 2020</span></span></div>
+                        <div class="gallery__item" style="--r:0.307"><picture><source type="image/webp" data-srcset="img/opt/2024-12-Arthemii-Ionaere-olymp-800.webp?v=3 800w, img/opt/2024-12-Arthemii-Ionaere-olymp-1600.webp?v=3 1600w, img/opt/2024-12-Arthemii-Ionaere-olymp-2400.webp?v=3 2400w" sizes="(max-width: 640px) 90vw, (max-width: 1024px) 50vw, 800px"><img data-src="img/opt/2024-12-Arthemii-Ionaere-olymp-1600.jpg?v=3" alt="Olymp glass sculpture — stained glass by Arthemii Ionaere" loading="lazy" decoding="async"></picture><span class="gallery__caption">Olymp <span>· 2020</span></span></div>
                     </div>
                     <div class="gallery__row gallery__row--wide">
                         <div class="gallery__item" style="--r:1.6"><picture><source type="image/webp" data-srcset="img/opt/portrait-arthemii-800.webp 800w, img/opt/portrait-arthemii-1600.webp 1600w, img/opt/portrait-arthemii-2400.webp 2400w" sizes="(max-width: 640px) 90vw, (max-width: 1024px) 50vw, 800px"><img data-src="img/opt/portrait-arthemii-1600.jpg" alt="Arthemii Ionaere portrait with prismatic light" loading="lazy" decoding="async"></picture><span class="gallery__caption">Arthemii Ionaere · portrait</span></div>

diff --git a/fr/gallery/index.html b/fr/gallery/index.html
@@ -291,8 +291,8 @@
                         </div>
                         <div class="gslide__count" aria-hidden="true">22 / 27</div>
                     </article>
-                    <article class="gslide" style="--r:0.359">
-                        <div class="gslide__frame"><a class="gslide__media" href="olymp-glass-sculpture/"><picture><source type="image/webp" srcset="../../img/opt/2024-12-Arthemii-Ionaere-olymp-800.webp?v=2 800w, ../../img/opt/2024-12-Arthemii-Ionaere-olymp-1600.webp?v=2 1600w, ../../img/opt/2024-12-Arthemii-Ionaere-olymp-2400.webp?v=2 2400w" sizes="(max-width: 768px) 92vw, 80vw"><img src="../../img/opt/2024-12-Arthemii-Ionaere-olymp-1600.jpg?v=2" alt="Olymp — Arthemii Ionaere" loading="lazy" decoding="async"></picture></a>
+                    <article class="gslide" style="--r:0.307">
+                        <div class="gslide__frame"><a class="gslide__media" href="olymp-glass-sculpture/"><picture><source type="image/webp" srcset="../../img/opt/2024-12-Arthemii-Ionaere-olymp-800.webp?v=3 800w, ../../img/opt/2024-12-Arthemii-Ionaere-olymp-1600.webp?v=3 1600w, ../../img/opt/2024-12-Arthemii-Ionaere-olymp-2400.webp?v=3 2400w" sizes="(max-width: 768px) 92vw, 80vw"><img src="../../img/opt/2024-12-Arthemii-Ionaere-olymp-1600.jpg?v=3" alt="Olymp — Arthemii Ionaere" loading="lazy" decoding="async"></picture></a>
                             <div class="gslide__title"><span class="gslide__name">Olymp</span><span class="gslide__year">2020</span></div>
                             <div class="gslide__title gslide__title--sat" aria-hidden="true"><span class="gslide__name">Olymp</span><span class="gslide__year">2020</span></div>
                             <div class="gslide__desc"><p class="gslide__text">Une haute sculpture ondulée de la série Frame Sculpting. Du verre thermoformé serti dans une structure en acier avec des baguettes de laiton forme une surface verticale fluide d&#x27;environ deux mètres. Elle est conçue pour être suspendue.</p><p class="gslide__meta">v. 2020 · env. 200 × 40 × 10 cm · acier, baguettes de laiton, verre thermoformé</p></div>

diff --git a/es/gallery/index.html b/es/gallery/index.html
@@ -291,8 +291,8 @@
                         </div>
                         <div class="gslide__count" aria-hidden="true">22 / 27</div>
                     </article>
-                    <article class="gslide" style="--r:0.359">
-                        <div class="gslide__frame"><a class="gslide__media" href="olymp-glass-sculpture/"><picture><source type="image/webp" srcset="../../img/opt/2024-12-Arthemii-Ionaere-olymp-800.webp?v=2 800w, ../../img/opt/2024-12-Arthemii-Ionaere-olymp-1600.webp?v=2 1600w, ../../img/opt/2024-12-Arthemii-Ionaere-olymp-2400.webp?v=2 2400w" sizes="(max-width: 768px) 92vw, 80vw"><img src="../../img/opt/2024-12-Arthemii-Ionaere-olymp-1600.jpg?v=2" alt="Olymp — Arthemii Ionaere" loading="lazy" decoding="async"></picture></a>
+                    <article class="gslide" style="--r:0.307">
+                        <div class="gslide__frame"><a class="gslide__media" href="olymp-glass-sculpture/"><picture><source type="image/webp" srcset="../../img/opt/2024-12-Arthemii-Ionaere-olymp-800.webp?v=3 800w, ../../img/opt/2024-12-Arthemii-Ionaere-olymp-1600.webp?v=3 1600w, ../../img/opt/2024-12-Arthemii-Ionaere-olymp-2400.webp?v=3 2400w" sizes="(max-width: 768px) 92vw, 80vw"><img src="../../img/opt/2024-12-Arthemii-Ionaere-olymp-1600.jpg?v=3" alt="Olymp — Arthemii Ionaere" loading="lazy" decoding="async"></picture></a>
                             <div class="gslide__title"><span class="gslide__name">Olymp</span><span class="gslide__year">2020</span></div>
                             <div class="gslide__title gslide__title--sat" aria-hidden="true"><span class="gslide__name">Olymp</span><span class="gslide__year">2020</span></div>
                             <div class="gslide__desc"><p class="gslide__text">Una escultura alta y ondulada de la serie Frame Sculpting. Vidrio curvado engastado en una estructura de acero con perfiles de latón forma una superficie vertical fluida de unos dos metros de altura. Está concebida para colgarse.</p><p class="gslide__meta">c. 2020 · aprox. 200 × 40 × 10 cm · acero, perfil de latón, vidrio curvado</p></div>
